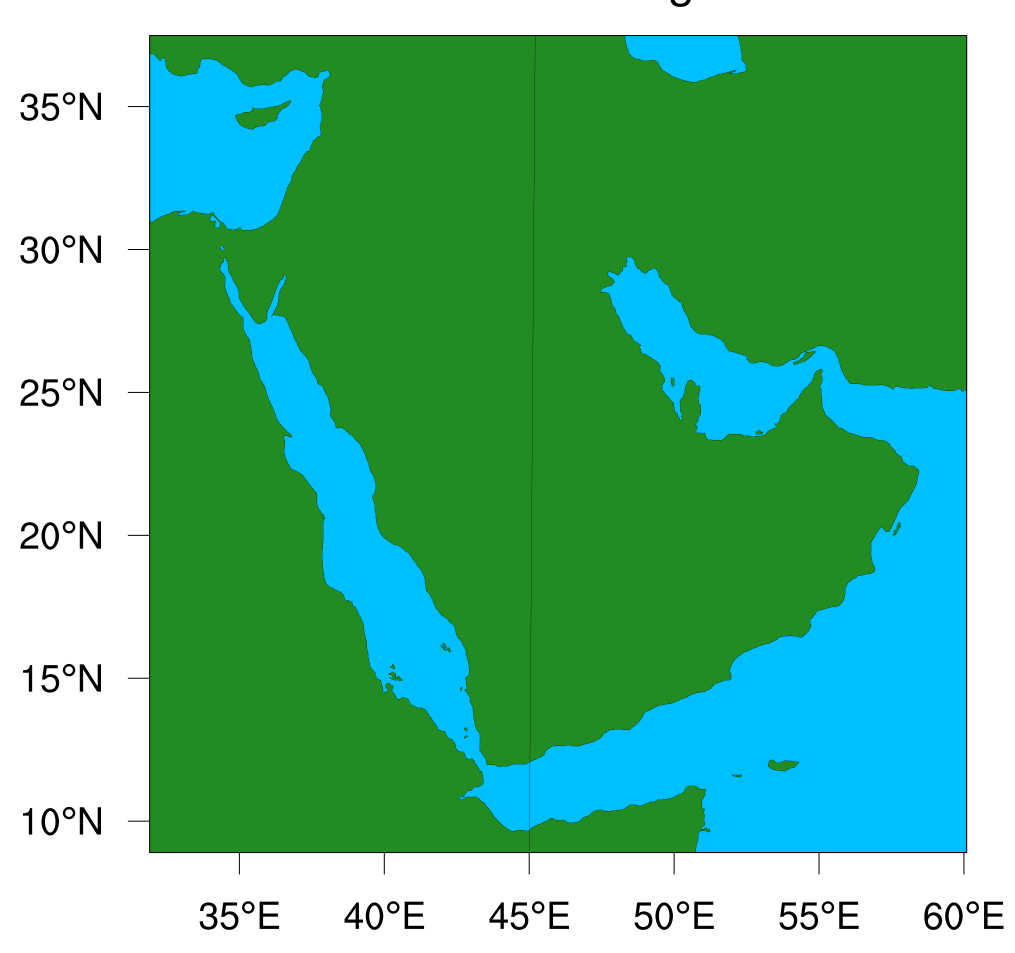
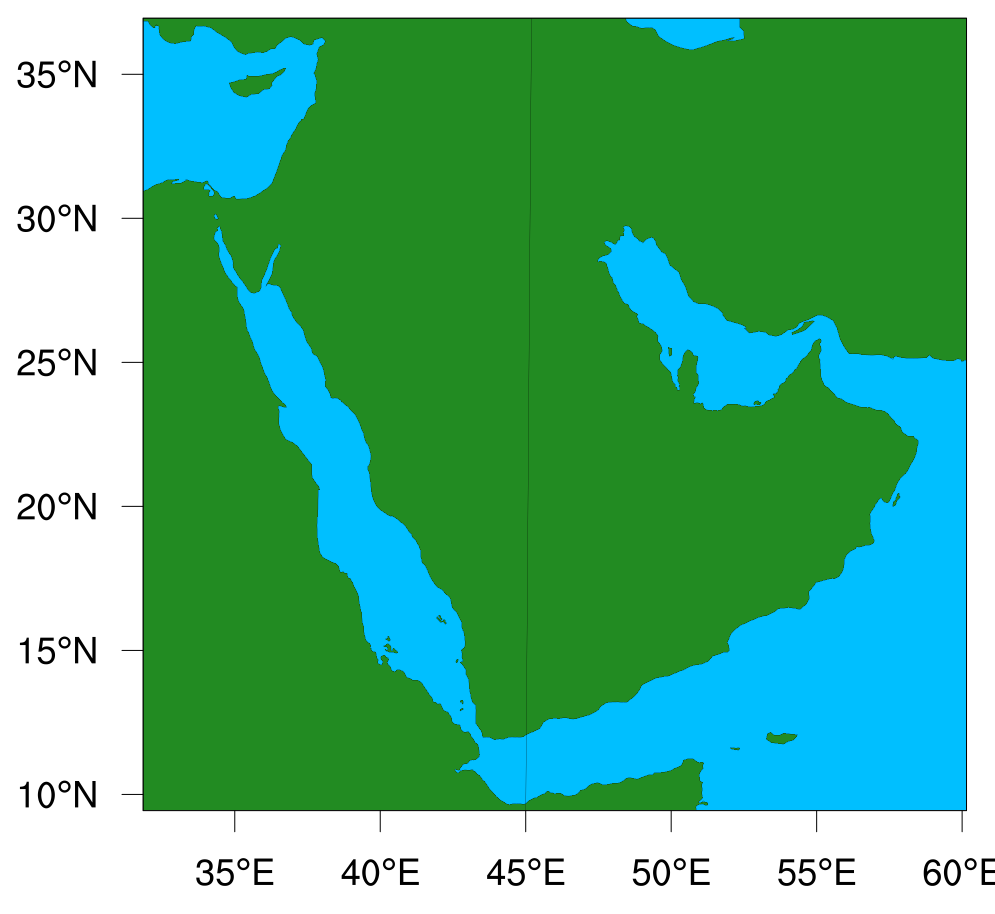
Updated

diff --git a/README.md b/README.md
@@ -13,16 +13,16 @@
 ## Domain, Grid and Resolution
 The coupled model domain will be kept as similar/close as possible to the current standalone S2S model.
 
-| ![Current S2S domain](assets/images/wps_dom_S2SWRF.png) |
-|:--:|
-| Figure 1: The current standalone S2S domain |
-| Projection: Lambert, Resolution: 4km |
-| No: of grid points: 768 x 672 (516096) |
-| ref_lat   =  22.3, ref_lon   =  45.0 |
+| ![Coupled S2S domain](assets/images/wps_dom_S2SCoupled2.png) | ![Current S2S domain](assets/images/wps_dom_S2SWRF.png) |
+|:--:|:--:|
+| Figure 1: The coupled S2S domain | Figure 2: The current standalone S2S domain |
+| Projection: Lat-Lon , Resolution: 0.036 degrees | Projection: Lambert, Resolution: 4km | 
+| No: of grid points: 800 x 770 (616000, 20% more grid points) | No: of grid points: 768 x 672 (516096) |
+| ref_lat   =  24, ref_lon   =  46.0 | ref_lat   =  22.3, ref_lon   =  45.0 |
 
 <br>
 
-| ![Coupled S2S domain 1](assets/images/wps_dom_S2SCoupled1.png) |
+<!-- | ![Coupled S2S domain 1](assets/images/wps_dom_S2SCoupled1.png) |
 |:--:|
 | Figure 2: The coupled S2S domain 1 |
 | Projection: Lat-Lon (Cyllindrical Equidistant), Resolution: 0.036 degrees |
@@ -30,17 +30,10 @@ The coupled model domain will be kept as similar/close as possible to the curren
 | ref_lat   =  24, ref_lon   =  44.0 |
 
 
-<br>
-
-| ![Coupled S2S domain 2](assets/images/wps_dom_S2SCoupled2.png) |
-|:--:|
-| Figure 3: The coupled S2S domain 2 |
-| Projection: Lat-Lon (Cyllindrical Equidistant), Resolution: 0.036 degrees |
-| No: of grid points: 800 x 800 (640000, 24% more grid points) |
-| ref_lat   =  24, ref_lon   =  46.0 |
+<br> -->
 
 
-The initial plan is to use identical horizontal grids for both atmosphere and ocean to eliminate the complication of regridding winds near steep orography and complex coastlines (Sun et al. 2019, 2021). 
+<!-- The initial plan is to use identical horizontal grids for both atmosphere and ocean to eliminate the complication of regridding winds near steep orography and complex coastlines (Sun et al. 2019, 2021).  -->
 
 
 ##
